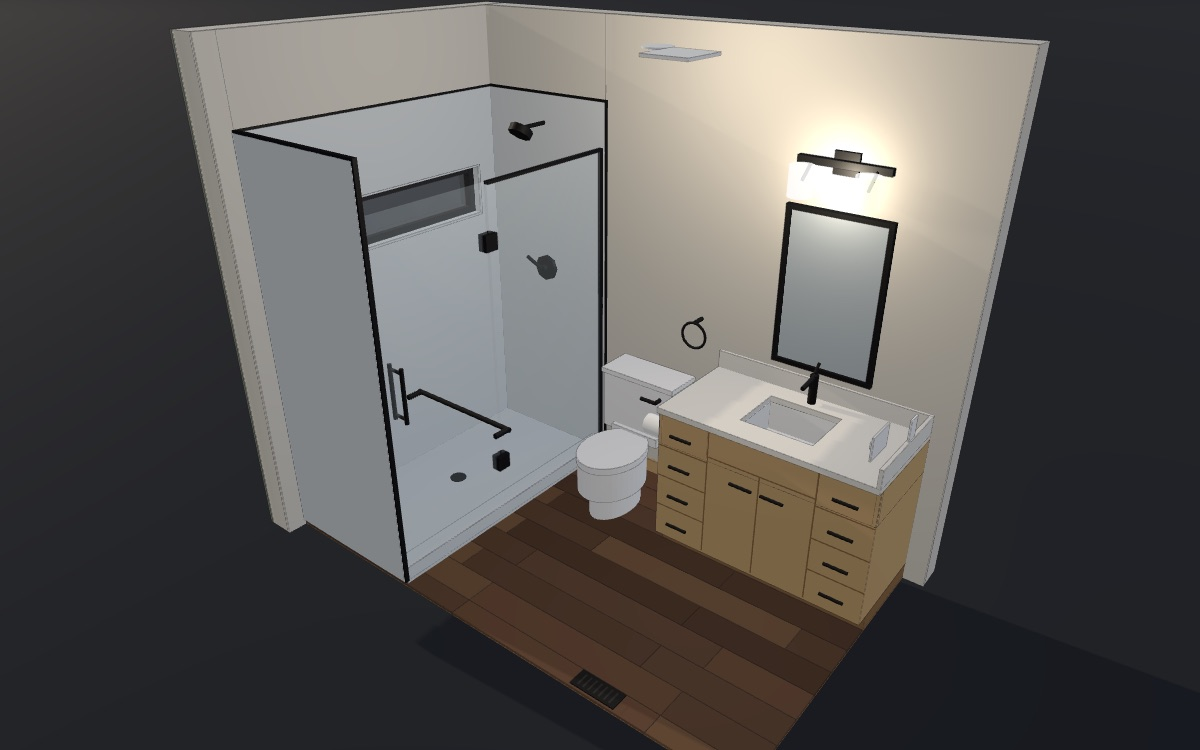
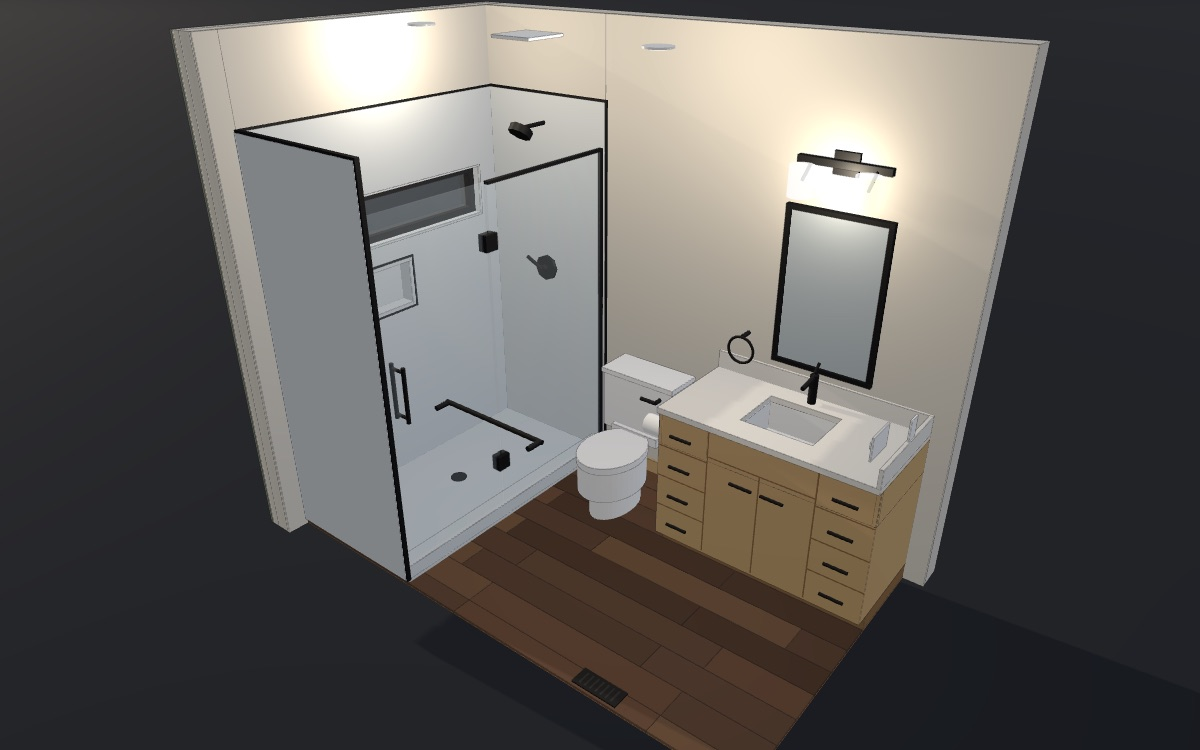
fix: guest bath -- shear-OSB dimensions (66 9/16" tile to tile), niche under window C, towel bar / WC supply / drain corrections, shower can + fan (owner review 2026-09-13)

diff --git a/guest-bath.html b/guest-bath.html
@@ -63,25 +63,34 @@
     <h1>Guest bath (lower floor) &mdash; interior 3D</h1>
     <div class="sub">138 Tahoma St E, Packwood &middot; Armstrong permit set 2507 (A02 plan + section 4 / A03 / A04 / E01 / M01 / S3.2)
     + basis-of-design fixture schedule. The lower-floor <b>GUEST BATH</b> on the east (gridline A) wall between the guest-room-1
-    closets (south) and the kitchen (north), entered from the hall: 5'-7 3/4" x 9'-8 1/2" clear under a flat 9'-0" ceiling. The
+    closets (south) and the kitchen (north), entered from the hall: 5'-7 5/16" x 9'-8 1/2" clear under a flat 9'-0" ceiling (the kitchen wall is a <b>shear wall with 7/16" OSB on the bath face</b> &mdash; owner 2026-09-13 &mdash; so its finishes sit 7/16" further into the room than the bare-stud reading; tape the OSB). The
     plumbing wall is centered on gridline 2; a 60 1/2" alcove is formed by an 8 1/2" chase at the kitchen end, with a 4'-0" x 1'-0"
     window (C) at 5'-0" in its east wall. <b>Owner changes 2026-09-10:</b> a tiled <b>shower with a frameless glass door</b> (<b>34 1/8" from the glass to the back tile</b> &mdash; owner 2026-09-13, was 32" &mdash; tile to 7'-6" with painted wall above,
     like the upstairs bath) replaces A02's tub; the single-sink vanity in the hall-wall corner grows to <b>48"</b>
     (A02: 42 1/2"); every fixture and accessory is <b>matte black</b>. The sink is <b>centered on the 48"</b> (owner decision). The <b>End wall</b>
-    radio opens on the owner's default -- <b>no stub wall</b>, a full-width <b>67"</b> tiled shower with custom glass wall to wall -- and can
+    radio opens on the owner's default -- <b>no stub wall</b>, a full-width <b>66 9/16"</b> tiled shower (67" before the OSB was known) with custom glass wall to wall, templated after tile -- and can
     show A02's 8 1/2" chase (which only existed to fit a standard 60" insert, drawn with a 60" x 36" pan) for comparison.
     <b>Depth 2026-09-13:</b> the shower front moved 2" west, so the glass-to-back-tile depth is 34 1/8" and the <b>flat floor inside the 4" curb is 31 1/8"</b>
     &mdash; the curb, not the glass, is what your feet and the toilet actually meet. The toilet is re-centred on those finished faces at
     <b>16 1/2" to the vanity end panel and 16 1/2" to the curb</b> (17 1/2" to the glass centerline; UPC 402.5 / IRC R307.1 minimum is 15",
-    18" is the comfort figure); 40" in front of it, 43" between the vanity and the kitchen wall. UPC 408.6 measures at the curb centerline:
-    33 1/8" x 67" = 2,219 sq in against a 1,024 minimum, with the 30" circle clearing by 3 1/8". Door 6
+    18" is the comfort figure); 39 5/16" in front of it, 42 9/16" between the vanity and the kitchen wall. UPC 408.6 measures at the curb centerline:
+    33 1/8" x 66 9/16" = 2,205 sq in against a 1,024 minimum, with the 30" circle clearing by 3 1/8". Door 6
     (30", LH in-swing) is hinged at the kitchen wall. Walls and openings follow the A02 dim chains; device and light positions are scaled
     from E01 / M01 (&plusmn;1", M01 &plusmn;3"). <b>Orange = not on record or the sheets disagree:</b> S3.2 puts the hall-wall header (a door)
-    at the plumbing-wall corner, 34" south of A02's door 6; A04 lists window C's rough width as 3'-0 1/2" against a 4'-0" unit; the
-    M01 fan and the E01 recessed can land 9" apart; the register sits under the open door; the shower valve and arm heights in the drawing are
-    measured from subfloor (46 1/2" and 78 1/2" above the shower's tiled floor) and the valve sits behind the fixed glass panel, out of reach from outside. <b>Fixtures match the main bath</b> (owner
+    at the plumbing-wall corner, 34" south of A02's door 6; A04 lists window C's rough width as 3'-0 1/2" against a 4'-0" unit; the register sits under the open door;
+    the valve (46 1/2" above the shower floor, arm 82") sits behind the fixed glass panel, out of reach from outside. <b>Design review 2026-09-13 (owner decisions):</b>
+    the M01 fan, 9" from the E01 can, moves beside the shower glass and a <b>wet-rated can is added over the shower</b> (neither is on E01 / M01); the towel bar moves 7" south,
+    out of the shower door's sweep (its free corner passes 2" off the kitchen wall at z 103); the towel ring moves off the toilet tank to z 75; the WC supply mark moves to the
+    shower side, <b>46 1/2"</b> (6" left of the flange facing the toilet); <b>window C needs tempered glass</b> (its glass bottom is ~59" above the shower floor, under IRC
+    R308.4.5's 60" line &mdash; a question for Elevate) and sits ~3 7/8" off the full-width shower's centre; a <b>recessed niche</b> goes in the east wall under window C
+    &mdash; one cripple bay, 12 3/4" x 10 1/4" x 3 1/2" clear, bottom 43", with 2" of closed-cell foam sprayed behind it before it is built; and the hinge-side door casing is a
+    rip, since the RO sits ~1" from the partition's drywall &mdash; tape the built RO. <b>Fixtures match the main bath</b> (owner
     2026-09-10): Moen UT3312 shower trim, Moen 6402 faucet, Kohler Artifacts 72582 sconce over a Kohler K-26052 mirror.
-    <b>Plumbing rough-in</b> is one Show checkbox, <b>Plumbing</b>, read on the <b>Plumbing</b> view (an elevation of the single wall every stub lands on) with <b>Framing</b> ticked and the finishes off &mdash; the condition at rough-in. Every penetration carries a crosshair on its centerline and a two-line tag: the run <b>along the wall from the EAST (window) wall studs</b> (owner 2026-09-13 &mdash; the datum he marks from), then the height <b>off the subfloor</b> ("up") where one is given, or <b>off the plumbing-wall studs</b> ("out") for the two points in the floor. A running string under the wall steps 10 1/2 | 5 1/2 | 2 | 34 1/2 | 6 | 30 1/2 | 4 | 4 = 97", so the whole run lays out on one tape pull. <b>Stub heights for the lav drain, lav supplies and WC supply are deliberately not shown</b> (owner 2026-09-13): the plumber uses his own standard and the vanity conceals all three. <b>Everything on the drawing is off bare studs.</b> Finished-face equivalents: this wall finishes 1/2" proud of the studs and 7/8" in the shower (1/2" backer + 3/8" tile), the hall wall 1/2", the floor 0.6" LVP and 1 1/2" tile in the shower. So the WC flange's 12 1/2" off the studs is the <b>12" rough-in measured to finished</b> &mdash; marking 12" off bare studs would bind the tank; the lav drain's 24 1/2" is 24" finished and its 18 5/8" is 18" AFF; the shower valve's 48" off the subfloor is 46 1/2" above the shower floor, and the arm's 83 1/2" is <b>82" above the shower floor</b> (owner 2026-09-13, raised from 78 1/2"); the shower tile was lifted to <b>7'-6"</b> in the same decision so the arm sits 6 1/2" inside the tile field rather than straddling its edge. From M01's notes: listed anti-scald / pressure-balance valve, 120&deg;F max (BATHROOM 4); rigidly support the head fitting (1); flange on corrosion-resistant fasteners (6); closet ring to vent 6'-0" maximum (7), and the flange is 42" from the vent; 18 ga nail plates wherever pipe comes within 1" of a framing face (PLUMBING 1). A flange set on the subfloor finishes ~5/8" below the LVP, so plan a spacer. Set the valve's plaster guard for a <b>7/8" finish</b>, not the 1/2" gyp the rest of the wall gets, and order the Moen M-CORE valve body to match the UT3312 trim. The <b>vent is drawn orange</b> because M01 detail 4 is a 3/16" schematic (&plusmn;3"): hold it to the north side of the 2x6 cavity, since a 2X12 floor joist runs directly over this wall and the top-plate penetration has to miss it, and nothing can rise at the hall end where a 6X8 post fills the cavity. <b>Settled 2026-09-13:</b> the owner has confirmed the full-width no-chase shower with Elevate, and the hall wall is <b>already framed with door 6 at the kitchen corner</b> beside the beam &mdash; the built condition, which matches A02 and settles the S3.2 header conflict in favour of what is drawn here (exact rough opening still wants a tape). <b>Still open:</b> the shower valve sits behind <i>fixed</i> glass about 40" from the door opening, so the water cannot be turned on from outside the enclosure &mdash; the owner is discussing it before deciding.
+    <b>Plumbing rough-in</b> is one Show checkbox, <b>Plumbing</b>, read on the <b>Plumbing</b> view (an elevation of the single wall every stub lands on) with <b>Framing</b> ticked and the finishes off &mdash; the condition at rough-in. Every penetration carries a crosshair on its centerline and a two-line tag: the run <b>along the wall from the EAST (window) wall studs</b> (owner 2026-09-13 &mdash; the datum he marks from), then the height <b>off the subfloor</b> ("up") where one is given, or <b>off the plumbing-wall studs</b> ("out") for the two points in the floor. A running string under the wall steps 10 1/2 | 5 1/2 | 2 | 28 1/2 | 6 | 36 1/2 | 4 | 4 = 97", so the whole run lays out on one tape pull. <b>Stub heights for the lav drain, lav supplies and WC supply are deliberately not shown</b> (owner 2026-09-13): the plumber uses his own standard and the vanity conceals all three. <b>Everything on the drawing is off bare studs.</b> Finished-face equivalents: this wall finishes 1/2" proud of the studs and 7/8" in the shower (1/2" backer + 3/8" tile), the hall wall 1/2", the floor 0.6" LVP and 1 1/2" tile in the shower. So the WC flange's 12 1/2" off the studs is the <b>12" rough-in measured to finished</b> &mdash; marking 12" off bare studs would bind the tank; the lav drain's 24 1/2" is 24" finished and its 18 5/8" is 18" AFF; the shower valve's 48" off the subfloor is 46 1/2" above the shower floor, and the arm's 83 1/2" is <b>82" above the shower floor</b> (owner 2026-09-13, raised from 78 1/2"); the shower tile was lifted to <b>7'-6"</b> in the same decision so the arm sits 6 1/2" inside the tile field rather than straddling its edge. From M01's notes: listed anti-scald / pressure-balance valve, 120&deg;F max (BATHROOM 4); rigidly support the head fitting (1); flange on corrosion-resistant fasteners (6); closet ring to vent 6'-0" maximum (7), and the flange is 42" from the vent; 18 ga nail plates wherever pipe comes within 1" of a framing face (PLUMBING 1). A flange set on the subfloor finishes ~5/8" below the LVP, so plan a spacer. Set the valve's plaster guard for a <b>7/8" finish</b>, not the 1/2" gyp the rest of the wall gets, and order the Moen M-CORE valve body to match the UT3312 trim. The <b>vent is drawn orange</b> because M01 detail 4 is a 3/16" schematic (&plusmn;3"): hold it to the north side of the 2x6 cavity, since a 2X12 floor joist runs directly over this wall and the top-plate penetration has to miss it, and nothing can rise at the hall end where a 6X8 post fills the cavity. <b>Settled 2026-09-13:</b> the owner has confirmed the full-width no-chase shower with Elevate, and the hall wall is <b>already framed with door 6 at the kitchen corner</b> beside the beam &mdash; the built condition, which matches A02 and settles the S3.2 header conflict in favour of what is drawn here (exact rough opening still wants a tape). <b>Still open:</b> the shower valve sits behind <i>fixed</i> glass about 40" from the door opening, so the water cannot be turned on from outside the enclosure &mdash; the owner is discussing it before deciding.
+    The options, written up 2026-09-13 at the owner's request: <b>(1) keep the valve where it is</b> and aim the head at the drain so the first cold blast lands away from the door &mdash;
+    the reviewer's recommendation, because <b>(2)</b> moving the valve to the kitchen end wall by the door means cutting that wall's shear OSB for the valve and arm (the engineer's
+    call, and the owner finds it awkward), the east wall is the insulated exterior wall, and a door at the valve end would sweep the toilet; <b>(3)</b> a frameless <b>sliding</b> door
+    lets the valve-end panel open (~12" reach), removes both swing conflicts, and costs a ~30" clear opening and an overlap seam to clean.
     Finishes (dark rustic LVP, knotty alder, light quartz) carry the owner's main-bath / kitchen picks and are assumptions
     here; the BoD leaves the bath cabinet TBD. No site photos or field tape of this room yet -- A02's own <i>5'-3 1/4" FIELD VERIFY</i>
     on the alcove is open. <b>Not engineered &mdash; do not build from this.</b>
@@ -1587,8 +1596,9 @@ const D = {
   TILE_T: 0.875, TILE_H: 90,                            // 1/2" backer + 3/8" tile on the three shower walls, to 7'-6" (owner 2026-09-13: lifted from 84" so the 82" arm sits 6 1/2" inside the tile field)
   // hall wall (west): hall gyp / studs / bath gyp
   HW_OUT: 29.0, HW_S1: 29.5, HW_S2: 33.0, HW_IN: 33.5,
-  // kitchen partition (north): bath gyp / studs / kitchen gyp
-  KP_IN: 71.0, KP_S1: 71.5, KP_S2: 75.0, KP_OUT: 75.5,
+  // kitchen partition (north) -- a SHEAR WALL with the OSB on the BATH face (owner 2026-09-13): bath gyp / 7/16" OSB / studs / kitchen gyp.
+  // S3.4's W-types are all 7/16" OSB; the built thickness is a TAPE item. Bath face = 71.5 - 0.4375 - 0.5 = 70 9/16" (was drawn 71.0 on bare studs)
+  KP_OSB: 0.4375, KP_IN: 70.5625, KP_S1: 71.5, KP_S2: 75.0, KP_OUT: 75.5,
   // chase at the alcove's north end: framing face (chain 255.75 - 192.5) and its return plane (moved from A02's 120 to 116.5 for a 34" pan)
   CH_X1: 63.25, CH_Z: 114.5,
   // east wall (gridline A): gyp / studs / sheathing / siding
@@ -1598,6 +1608,9 @@ const D = {
   // openings (door 6 per the A02 chain; window C RO 4'-0 1/2" x 1'-0 1/2", A04's 3'-0 1/2" rough width flagged)
   DOOR_X1: 39.0, DOOR_X2: 69.5, DOOR_HEAD: 84.5, DOOR_W: 30, DOOR_T: 1.375,
   WIN_X1: 8.75, WIN_X2: 57.25, WIN_SILL: 59.75, WIN_HEAD: 72.25,
+  // recessed niche in the east wall under window C (owner 2026-09-13): one cripple bay [x1, x2, y1, y2, framed depth]; the bay drawn is the
+  // assumed 16" layout (cripples at 31.75 / 47.75) -- use the built bay nearest the shower centre; 2" closed-cell foam stays BEHIND it
+  NICHE: [32.5, 47.0, 43.0, 55.0, 3.5],
   // shower (owner 2026-09-10, replaces the A02 tub; depth 32" -> 34" owner 2026-09-13, spec decision 10): frameless glass on the threshold,
   // 34 1/8" glass to back tile / 31 1/8" of flat floor inside the 4" curb; 60" x 36" alcove pan in the chase comparison view
   SH_X1: 3.0, SH_X2: 63.0, SH_Z1: 114.5, SH_Z2: 150.5, PAN_T: 1.5, CURB_W: 3.0, GLASS_Z: 115.5, GLASS_H: 80,
@@ -1611,7 +1624,7 @@ const D = {
   // glass centerline; was 99.5 at the 32" depth, A02 drew 104 (spec decision 10)
   WC_Z: 98.0,
   // devices: E01 can + GFCI + 3-gang, M01 fan + floor register
-  CAN: [37.2, 77.4], FAN: [42.0, 70.0], SWITCH_X: 32.5, GFCI_X: 15.5, REG: [66.5, 70.5, 60, 70],
+  CAN: [37.2, 77.4], FAN: [38.0, 105.0], SHCAN: [36.9, 134.0], SWITCH_X: 32.5, GFCI_X: 15.5, REG: [66.0, 70.0, 60, 70],   // owner 2026-09-13: fan moved beside the shower glass (M01 had it at 42 / 70, 9" from the E01 can) and a wet-rated can added over the shower
   // finishes + framing rules
   PLANK_W: 7, PLANK_L: 48, BASE_H: 3.5,
   JOIST_X0: -2.2, JOIST_OC: 16, DRAG_X: 71.8,
@@ -1828,6 +1841,8 @@ scene.add(new THREE.AmbientLight(0xffffff, 0.35));
 
 const TOP = D.CEIL + D.GYP_T;   // walls run to the joist underside (108); the ceiling gyp sits inside
 const winHole = rect(D.WIN_X1, D.WIN_SILL, D.WIN_X2, D.WIN_HEAD);
+const [NX1, NX2, NY1, NY2, ND] = D.NICHE, nicheHole = rect(NX1, NY1, NX2, NY2);   // niche recess in the east wall (owner 2026-09-13)
+const KP_F = D.KP_S1 - D.KP_OSB;   // face of the kitchen wall's shear OSB on the bath side: gyp, and backer + tile in the shower, sit on THIS, not on the studs
 
 // ---- plumbing wall (south, gridline 2): 2x6 core + gyp; the alcove stretch of the bath face is tile (tile layer) --------
 {
@@ -1845,8 +1860,9 @@ const winHole = rect(D.WIN_X1, D.WIN_SILL, D.WIN_X2, D.WIN_HEAD);
   box(x2 - 0.75, x2, 0, h, D.HW_OUT, D.HW_IN, M.alder, L);
   box(x1, x2, h - 0.75, h, D.HW_OUT, D.HW_IN, M.alder, L);
   for (const [za, zb] of [[D.HW_IN, D.HW_IN + 0.6], [D.HW_OUT - 0.6, D.HW_OUT]]) {   // casing, both faces
-    box(x1 - 2.5, x1, 0, h + 2.5, za, zb, M.alder, L); box(x2, x2 + 2.5, 0, h + 2.5, za, zb, M.alder, L);
-    box(x1 - 2.5, x2 + 2.5, h, h + 2.5, za, zb, M.alder, L);
+    const cx2 = za >= D.HW_IN ? Math.min(x2 + 2.5, D.KP_IN) : x2 + 2.5;             // bath side: the RO is ~1" from the kitchen partition's drywall, so the hinge-side casing is a rip, not 2 1/2" (tape the built RO)
+    box(x1 - 2.5, x1, 0, h + 2.5, za, zb, M.alder, L); box(x2, cx2, 0, h + 2.5, za, zb, M.alder, L);
+    box(x1 - 2.5, cx2, h, h + 2.5, za, zb, M.alder, L);
   }
   const grp = new THREE.Group();
   grp.position.set(x2 - 0.75 - 0.15, 0, D.HW_IN - D.DOOR_T / 2);                // hinge pin at the north jamb, bath side of the stop
@@ -1865,14 +1881,16 @@ const winHole = rect(D.WIN_X1, D.WIN_SILL, D.WIN_X2, D.WIN_HEAD);
 //      the tile used to sit over the gyp, which understated the no-chase shower by 1/2"). Behind the chase option the strip is
 //      hidden by the chase block, so it is simply left out in both views.
 box(D.KP_S1, D.KP_OUT, 0, TOP, D.HW_OUT, D.EW_S1, M.gyp, 'wallN');                       // core + kitchen-side gyp, full length
-box(D.KP_IN, D.KP_S1, 0, TOP, D.HW_OUT, D.CH_Z, M.gyp, 'wallN');                         // bath-side gyp up to the shower
-box(D.KP_IN, D.KP_S1, D.TILE_H, TOP, D.CH_Z, D.EW_S1, M.gyp, 'wallN');                   // ... and above the shower tile
+box(KP_F, D.KP_S1, 0, TOP, D.HW_OUT, D.EW_S1, M.ply, 'wallN');                           // 7/16" shear OSB on the bath face, full length (owner 2026-09-13; S3.4)
+box(D.KP_IN, KP_F, 0, TOP, D.HW_OUT, D.CH_Z, M.gyp, 'wallN');                            // bath-side gyp over the OSB, up to the shower
+box(D.KP_IN, KP_F, D.TILE_H, TOP, D.CH_Z, D.EW_S1, M.gyp, 'wallN');                      // ... and above the shower tile
 tagNew('chaseOn', () => box(D.CH_X1, D.KP_IN, 0, TOP, D.CH_Z, D.EW_S1, M.gyp, 'tub'));   // chase block: 8 1/4" framing + gyp return at the pan's front edge (End wall radio)
 
 // ---- east wall (gridline A) with window C: 4'-0" x 1'-0" at 5'-0", tiled returns inside the surround -----------------------
 {
   const L = 'wallE', x1 = D.PW_OUT, x2 = D.KP_OUT;
-  prism(rect(x1, 0, x2, TOP), D.EW_S1, D.EW_S2, M.gyp, L, [winHole]);            // stud zone
+  prism(rect(x1, 0, x2, TOP), D.EW_S1, D.EW_S1 + ND, M.gyp, L, [winHole, nicheHole]);   // stud zone, inner 3 1/2" with the niche recess
+  prism(rect(x1, 0, x2, TOP), D.EW_S1 + ND, D.EW_S2, M.gyp, L, [winHole]);             // ... outer 2": the closed-cell foam stays behind the niche
   prism(rect(x1, 0, x2, TOP), D.EW_S2, D.SHEATH, M.ply, L, [winHole]);            // 7/16" OSB
   prism(rect(x1, 0, x2, TOP), D.SHEATH, D.SIDING, M.siding, L, [winHole]);        // hardie siding
   prism(rect(x1, 0, D.PW_N, TOP), D.EW_IN, D.EW_S1, M.gyp, L);                    // interior gyp outside the alcove
@@ -1889,6 +1907,16 @@ tagNew('chaseOn', () => box(D.CH_X1, D.KP_IN, 0, TOP, D.CH_Z, D.EW_S1, M.gyp, 't
   box(D.WIN_X1, D.WIN_X2, D.WIN_HEAD - 0.5, D.WIN_HEAD, tf, fz1, M.tile, 'tile');
   box(D.WIN_X1, D.WIN_X1 + 0.5, D.WIN_SILL, D.WIN_HEAD, tf, fz1, M.tile, 'tile');
   box(D.WIN_X2 - 0.5, D.WIN_X2, D.WIN_SILL, D.WIN_HEAD, tf, fz1, M.tile, 'tile');
+  // niche (owner 2026-09-13): tiled box in the 3 1/2" recess under the window -- 7/8" backer + tile on the back and the four sides,
+  // 12 3/4" x 10 1/4" x 3 1/2" clear, black edge trim at the wall face; the bottom is sloped to the shower in reality
+  {
+    const t = D.TILE_T, zf = tf, zb = D.EW_S1 + ND;
+    box(NX1, NX2, NY1, NY2, zb - t, zb, M.tile, 'tile');                                   // back
+    box(NX1, NX2, NY1, NY1 + t, zf, zb - t, M.tile, 'tile'); box(NX1, NX2, NY2 - t, NY2, zf, zb - t, M.tile, 'tile');   // bottom / top
+    box(NX1, NX1 + t, NY1, NY2, zf, zb - t, M.tile, 'tile'); box(NX2 - t, NX2, NY1, NY2, zf, zb - t, M.tile, 'tile');   // sides
+    for (const [a, b] of [[NX1 - 0.5, NX1], [NX2, NX2 + 0.5]]) box(a, b, NY1 - 0.5, NY2 + 0.5, zf - 0.1, zf + 0.1, M.black, 'tile', false);   // edge trim
+    for (const [a, b] of [[NY1 - 0.5, NY1], [NY2, NY2 + 0.5]]) box(NX1, NX2, a, b, zf - 0.1, zf + 0.1, M.black, 'tile', false);
+  }
 }
 
 // ---- floor: COREtec 7" x 48" LVP planks (BoD 0965) running the long way (east-west), staggered; dark rustic per the owner ----
@@ -1945,7 +1973,7 @@ box(D.PW_IN, D.KP_IN, D.CEIL, D.CEIL + D.GYP_T, D.HW_IN, D.EW_IN, M.gyp, 'ceilin
     box(x1, x2, 0, 4, z1, z1 + D.CURB_W, M.white, L);                                   // threshold along the glass line
     cyl((x1 + x2) / 2, (z1 + D.CURB_W + z2) / 2, yb, yb + 0.2, 2, M.black, L);         // drain
     box(xe - tt, xe, yb, th, z1, ez, M.tile, T);                                        // chase-end tile
-    prism(rect(D.PW_N, yb, xe, th), ez, D.EW_S1, M.tile, T, [winHole]);                // east wall tile around window C
+    prism(rect(D.PW_N, yb, xe, th), ez, D.EW_S1, M.tile, T, [winHole, nicheHole]);     // east wall tile around window C and the niche
     box(xe - tt - 0.1, xe, yb, th + 0.5, z1 - 0.5, z1, M.black, T, false);
     box(xe - tt - 0.1, xe, th, th + 0.5, z1 - 0.5, ez, M.black, T, false);
     box(D.PW_N, xe, th, th + 0.5, ez - 0.1, ez + 0.1, M.black, T, false);
@@ -1955,17 +1983,17 @@ box(D.PW_IN, D.KP_IN, D.CEIL, D.CEIL + D.GYP_T, D.HW_IN, D.EW_IN, M.gyp, 'ceilin
     pull(gs + 3.5);
   });
   tagNew('chaseOff', () => {                                                             // no chase: tiled floor + curb wall to wall, door hinged on the panel
-    const x1 = xf, x2 = D.KP_S1 - tt, gs = D.DOOR_G_X2, gx2 = x2 - 0.4;   // tile face 70.625: backer replaces the gyp, so the shower is 67" tile to tile
+    const x1 = xf, x2 = KP_F - tt, gs = D.DOOR_G_X2, gx2 = x2 - 0.4;   // tile face 70.1875: backer + tile on the shear OSB, so the shower is 66 9/16" tile to tile (67" before the OSB was known -- owner 2026-09-13)
     box(x1, x2, 0, yb, z1, z2, M.tile, L);                                              // tiled floor (mud-set, sloped to the drain in reality)
     box(x1, x2, 0, 4.5, z1, z1 + 4, M.tile, L);                                         // tiled 4" curb
     cyl((x1 + x2) / 2, (z1 + 4 + z2) / 2, yb, yb + 0.2, 2, M.black, L);                // drain
-    box(D.KP_S1 - tt, D.KP_S1, yb, th, z1, ez, M.tile, T);                              // kitchen-wall end tile
-    prism(rect(D.PW_N, yb, D.KP_S1, th), ez, D.EW_S1, M.tile, T, [winHole]);           // east wall tile, full width
-    box(D.KP_S1 - tt - 0.1, D.KP_S1, yb, th + 0.5, z1 - 0.5, z1, M.black, T, false);
-    box(D.KP_S1 - tt - 0.1, D.KP_S1, th, th + 0.5, z1 - 0.5, ez, M.black, T, false);
-    box(D.PW_N, D.KP_S1, th, th + 0.5, ez - 0.1, ez + 0.1, M.black, T, false);
+    box(KP_F - tt, KP_F, yb, th, z1, ez, M.tile, T);                                    // kitchen-wall end tile, on the OSB
+    prism(rect(D.PW_N, yb, KP_F, th), ez, D.EW_S1, M.tile, T, [winHole, nicheHole]);   // east wall tile, full width, with the niche cut
+    box(KP_F - tt - 0.1, KP_F, yb, th + 0.5, z1 - 0.5, z1, M.black, T, false);
+    box(KP_F - tt - 0.1, KP_F, th, th + 0.5, z1 - 0.5, ez, M.black, T, false);
+    box(D.PW_N, KP_F, th, th + 0.5, ez - 0.1, ez + 0.1, M.black, T, false);
     panel(xf + 0.6, gs - 0.3);
-    box(gs + 0.3, gx2, 4, gh, gz - 0.19, gz + 0.19, M.glass, G, false);                 // 29 1/2" door, free edge at the kitchen wall
+    box(gs + 0.3, gx2, 4, gh, gz - 0.19, gz + 0.19, M.glass, G, false);                 // 29 1/8" door, free edge at the kitchen wall (the glass is templated after tile, never from this drawing)
     for (const y of [14, 66]) box(gs - 1.6, gs + 1.6, y, y + 3.5, gz - 1.1, gz + 1.1, M.black, G);   // glass-to-glass hinges
     box(gx2, x2, 4, gh, gz - 0.5, gz + 0.5, M.black, G);                                // strike channel at the kitchen wall
     pull(gx2 - 3.5);
@@ -2021,7 +2049,7 @@ box(D.PW_IN, D.KP_IN, D.CEIL, D.CEIL + D.GYP_T, D.HW_IN, D.EW_IN, M.gyp, 'ceilin
   drawers(z1, z1 + 11.85); doors(z1 + 12.15, z2 - 12.15); drawers(z2 - 11.85, z2); sink(D.SINK_ZC);
 }
 
-// ---- toilet (American Standard, model not named; elongated) on the plumbing wall, centerline z = 104 -------------------------
+// ---- toilet (American Standard, model not named; elongated) on the plumbing wall, centerline z = 98 (spec decision 10) -------------------------
 {
   const zc = D.WC_Z, xb = D.PW_IN + 0.5, L = 'fixtures';
   box(xb, xb + 8.5, 15.5, 30, zc - 9.75, zc + 9.75, M.white, L);                       // tank
@@ -2037,10 +2065,10 @@ box(D.PW_IN, D.KP_IN, D.CEIL, D.CEIL + D.GYP_T, D.HW_IN, D.EW_IN, M.gyp, 'ceilin
   bar(V(20, 26, D.VAN_Z2), V(20, 26, D.VAN_Z2 + 3.5), 0.45, C, L);                     // TP holder on the vanity's end panel
   bar(V(20, 26, D.VAN_Z2 + 3.0), V(20, 26, D.VAN_Z2 + 7.8), 2.25, M.paper, L);
   bar(V(20, 26, D.VAN_Z2 + 3.5), V(20, 26, D.VAN_Z2 + 8.2), 0.45, C, L);
-  for (const z of [85, 107]) bar(V(D.KP_IN, 48, z), V(D.KP_IN - 3, 48, z), 0.5, C, L);   // 24" towel bar on the kitchen wall by the shower door
-  bar(V(D.KP_IN - 3, 48, 84.5), V(D.KP_IN - 3, 48, 107.5), 0.45, C, L);
-  bar(V(D.PW_IN, 46, 87), V(D.PW_IN + 3, 46, 87), 0.5, C, L);                          // hand-towel ring on the plumbing wall past the vanity
-  const ring = new THREE.Mesh(new THREE.TorusGeometry(3, 0.3, 8, 28), C); ring.position.set(D.PW_IN + 3.2, 43, 87); ring.rotation.y = Math.PI / 2; reg(ring, L);
+  for (const z of [78, 100]) bar(V(D.KP_IN, 48, z), V(D.KP_IN - 3, 48, z), 0.5, C, L);   // 24" towel bar on the kitchen wall by the shower door -- moved 7" south (owner 2026-09-13):
+  bar(V(D.KP_IN - 3, 48, 77.5), V(D.KP_IN - 3, 48, 100.5), 0.45, C, L);                //  the door's free corner sweeps to z ~103 at a 3" projection, so the old z 84 1/2 .. 107 1/2 bar was in its arc
+  bar(V(D.PW_IN, 46, 75), V(D.PW_IN + 3, 46, 75), 0.5, C, L);                          // hand-towel ring on the plumbing wall between the mirror (68 1/2) and the vanity end (81 1/2) --
+  const ring = new THREE.Mesh(new THREE.TorusGeometry(3, 0.3, 8, 28), C); ring.position.set(D.PW_IN + 3.2, 43, 75); ring.rotation.y = Math.PI / 2; reg(ring, L);   // owner 2026-09-13; at z 87 it hung over the toilet tank
 }
 
 // ---- lights and devices (E01 / M01) -------------------------------------------------------------------------------------------
@@ -2050,6 +2078,10 @@ box(D.PW_IN, D.KP_IN, D.CEIL, D.CEIL + D.GYP_T, D.HW_IN, D.EW_IN, M.gyp, 'ceilin
   cyl(cx, cz, yc - 0.35, yc, 2.7, M.white, L);
   cyl(cx, cz, yc - 0.5, yc - 0.3, 2.0, M.lens, L);
   const pl = new THREE.PointLight(0xfff1dc, 3000, 0, 2); pl.position.set(cx, yc - 4, cz); scene.add(pl);
+  const [sx, sz] = D.SHCAN;                                                            // wet-rated LED can over the shower (owner 2026-09-13; not on E01)
+  cyl(sx, sz, yc - 0.35, yc, 2.7, M.white, L);
+  cyl(sx, sz, yc - 0.5, yc - 0.3, 2.0, M.lens, L);
+  const sl = new THREE.PointLight(0xfff1dc, 2200, 0, 2); sl.position.set(sx, yc - 4, sz); scene.add(sl);
   const [fx, fz] = D.FAN;                                                              // Broan Economy 50 CFM grille (M01 position +/-3")
   box(fx - 4.5, fx + 4.5, yc - 0.5, yc, fz - 4.4, fz + 4.4, M.white, L);
   box(fx - 3.5, fx + 3.5, yc - 0.6, yc - 0.52, fz - 3.4, fz + 3.4, M.black, L, false);
@@ -2108,6 +2140,7 @@ box(D.PW_IN, D.KP_IN, D.CEIL, D.CEIL + D.GYP_T, D.HW_IN, D.EW_IN, M.gyp, 'ceilin
     }
     box(w1 - 1.5, w2 + 1.5, D.WIN_HEAD, D.WIN_HEAD + 7.25, z1 + 1, z1 + 4.5, M.flag, L);   // 4X8 DF-L #2 per S3.2 note 4 -- not called out at C
     box(w1 - 1.5, w2 + 1.5, D.WIN_SILL - 1.5, D.WIN_SILL, z1, z2, F, L);
+    box(NX1, NX2, NY1 - 1.5, NY1, z1, z1 + ND, F, L); box(NX1, NX2, NY2, NY2 + 1.5, z1, z1 + ND, F, L);   // niche sill + header blocks between two cripples; the 2" behind them is closed-cell foam
     for (let x = w1 + 7; x < w2 - 1; x += 16) studX(x, z1, z2, 1.5, D.WIN_SILL - 1.5);
     for (let x = w1 + 7; x < w2 - 1; x += 16) studX(x, z1, z2, D.WIN_HEAD + 7.25, yt - 3);
   }
@@ -2142,36 +2175,40 @@ box(D.PW_IN, D.KP_IN, D.CEIL, D.CEIL + D.GYP_T, D.HW_IN, D.EW_IN, M.gyp, 'ceilin
 }
 
 // ---- labels -----------------------------------------------------------------------------------------------------------------------
-label('GUEST BATH  5\'-7 3/4" x 9\'-8 1/2" clear, 9\'-0" ceiling\nplumbing wall centered on gridline 2', 37, 72, 92);
+label('GUEST BATH  5\'-7 5/16" x 9\'-8 1/2" clear, 9\'-0" ceiling\nplumbing wall centered on gridline 2; the kitchen wall is a SHEAR WALL with 7/16" OSB on the bath face (owner 2026-09-13) -- tape the OSB', 37, 72, 92);
 label('Door 6  30" x 84"  LH in-swing, hinged at the kitchen wall\nAgeless Iron Loch, OPCI', 54, 92, 34);
 label('RESOLVED BY THE BUILT CONDITION (owner 2026-09-13): this wall is framed with door 6 at the KITCHEN corner,\nbeside the beam -- the A02 position drawn here. S3.2\'s header 34" south was the conflict; the built wall settles it.\nStill worth a tape on the exact rough opening.', 40, 100, 31, NOTE);
-label('Window C  4\'-0" x 1\'-0", sill 5\'-0" (A03, A04 type C, section 4)\nA04 schedule lists its rough width as 3\'-0 1/2" -- drawn 4\'-0 1/2"; returns tiled', 33, 84, 148, FLAG);
+label('Window C  4\'-0" x 1\'-0", sill 5\'-0" (A03, A04 type C, section 4)\nA04 schedule lists its rough width as 3\'-0 1/2" -- drawn 4\'-0 1/2"; returns tiled\nTEMPERED glazing required: the glass bottom is ~59" above the shower floor, under IRC R308.4.5\'s 60" line -- confirm on the order with Elevate (obscure optional)\nThe unit is centred on the old 60 1/2" alcove (x 33), ~3 7/8" south of the full-width shower\'s centre -- built; the tile layout should know', 33, 84, 148, FLAG);
 tagNew('chaseOn', () => label('For comparison: 60" x 36" alcove pan in the A02 chase, 58 3/4" x 34 1/8" to the glass\nthe chase only existed to fit a standard insert. End wall radio: none (default) / chase', 33, 26, 132));
-tagNew('chaseOff', () => label('Full-width tiled shower, no chase (owner default): 67" tile to tile x 34 1/8" to the glass (owner 2026-09-13, was 32")\ntiled floor + 4" curb -- 31 1/8" of FLAT floor inside the curb, which is the dimension you stand in; custom frameless glass wall to wall', 37, 26, 132));
-label('Moen UT3312 Belfield M-CORE 3-Series shower trim, matte black -- same as the main bath (owner 2026-09-10); replaces the BoD UT2313EP kit\nValve 48" / arm 80" are ABOVE SUBFLOOR = 46 1/2" / 78 1/2" above the shower floor -- settle both as above-shower-floor numbers before rough-in\nAnd the valve sits behind the FIXED panel, ~35" from the door: the water cannot be turned on from outside, and walking to it crosses the spray.\nThe chase option\'s answer (a valve in the chase) went away with the chase -- owner call. M01 note 4: listed anti-scald / pressure-balance valve, 120 F max', 10, 96, 132.5, FLAG);
+tagNew('chaseOff', () => label('Full-width tiled shower, no chase (owner default): 66 9/16" tile to tile x 34 1/8" to the glass (owner 2026-09-13)\n66 9/16", not 67": the kitchen wall carries 7/16" shear OSB under its backer + tile (owner 2026-09-13) -- tape the OSB; the glass is templated after tile\ntiled floor + 4" curb -- 31 1/8" of FLAT floor inside the curb, which is the dimension you stand in; custom frameless glass wall to wall', 37, 26, 132));
+label('Moen UT3312 Belfield M-CORE 3-Series shower trim, matte black -- same as the main bath (owner 2026-09-10); replaces the BoD UT2313EP kit\nValve 48" / arm 83 1/2" above SUBFLOOR = 46 1/2" / 82" above the shower floor (owner 2026-09-13)\nOPEN (owner discussing): the valve sits behind the FIXED panel, ~40" from the door opening -- the water cannot be turned on from outside.\nThe kitchen wall is shear (no plumbing in it) and the east wall is the insulated exterior, so the choice is: keep it here and aim the head at the drain (recommended),\nor a sliding door that opens at the valve end -- see the caption. M01 note 4: listed anti-scald / pressure-balance valve, 120 F max', 10, 96, 132.5, FLAG);
 tagNew('chaseOn', () => label('Frameless glass: fixed panel at the valve end, 30" door hinged on the chase, swings out\n(a door at the valve end would sweep the toilet)', 33, 86, 118, NOTE));
-tagNew('chaseOff', () => label('Frameless glass wall to wall in a 67" opening: 35 7/8" fixed panel at the valve end, 29 9/16" door on glass-to-glass hinges,\nswings out and closes against the kitchen wall (a valve-end door would sweep the toilet)', 37, 86, 116, NOTE));
+tagNew('chaseOff', () => label('Frameless glass wall to wall in a 66 9/16" opening: 35 7/8" fixed panel at the valve end, 29 1/8" door on glass-to-glass hinges,\nswings out and closes against the kitchen wall (a valve-end door would sweep the toilet); its free corner sweeps to within 2" of the kitchen wall north of z 103', 37, 86, 116, NOTE));
 label('Tile 0931 (OPCI) to 7\'-6" on three walls, painted wall above (owner 2026-09-13: lifted from 7\'-0" to clear the 82" shower arm)', 40, 96, 148, NOTE);
 label('Single-sink vanity 48" x 24 3/4" (owner 2026-09-10; A02 42 1/2"), sink centered (owner decision): 12" drawers | 24" doors | 12" drawers\ncabinet species TBD in the BoD (drawn alder), quartz assumed; Moen 6402 faucet as upstairs; the E01 receptacle stays on the hall wall', 16, 42, 58);
 label('Kohler Artifacts 72582 two-light sconce over a Kohler K-26052 Essential 22" x 34" mirror -- same as the main bath (owner 2026-09-10)\nreplaces the BoD Bellevue EGBF23259 bar; the E01 circuit-2 box lands on the sink centerline, 24" off the hall wall', 8, 97, D.SINK_ZC, NOTE);
 label('Toilet -- American Standard (model not named)\ncenterline z 98: 16 1/2" to the vanity end panel and 16 1/2" to the CURB FACE -- the nearest finished obstruction, 1" inboard of the glass\n(17 1/2" to the glass centerline; UPC 402.5 / IRC R307.1 minimum is 15"). A02 drew it 6" further toward the shower', 22, 34, 98, FLAG);
-label('Recessed can (E01 ckt 2) and Broan 50 CFM fan (M01) land 9" apart\none moves ~6", or the fan becomes a fan/light', 40, 103, 74, FLAG);
+label('Recessed can (E01 ckt 2) stays; the M01 fan that sat 9" from it moved beside the shower glass (owner 2026-09-13)', 40, 103, 74, NOTE);
+label('Broan 50 CFM fan, moved beside the shower glass (owner 2026-09-13; M01 had it 9" from the can) -- tell the electrician', D.FAN[0], 103, D.FAN[1], FLAG);
+label('Wet-rated LED can over the shower (owner 2026-09-13; not on E01) -- the shower had no light of its own behind 7\'-6" tile and 80" glass', D.SHCAN[0], 103, D.SHCAN[1], FLAG);
+label('Recessed niche under window C (owner 2026-09-13): one cripple bay, 12 3/4" x 10 1/4" clear x 3 1/2" deep, bottom 43" (41 1/2" above the shower floor)\n2" closed-cell foam sprayed BEHIND it first; no cripple is cut (the exterior wall is shear W1); sloped tiled sill; the bay drawn is the assumed layout -- use the built bay nearest the shower centre', 40, 37, 147, FLAG);
+label('Hinge-side casing: the RO is ~1" from the kitchen partition\'s drywall (7/16" OSB + 1/2" gyp on the studs) -- a rip or a flush jamb, not a full 2 1/2" casing; tape the built RO', 66, 88, 34, FLAG);
 label('3-gang: vanity light / can / fan', D.SWITCH_X, 55, 36, NOTE);
 label('GFCI, ckt 32', D.GFCI_X, 48, 36, NOTE);
 label('Floor register at the end of the M01 trunk -- under the open door leaf, +/-4"', 66, 8, 65, FLAG);
-label('Accessories matte black (owner); TP holder, towel bar and ring locations are proposals, not on A02', 62, 56, 96, NOTE);
+label('Accessories matte black (owner); TP holder, towel bar and ring locations are proposals, not on A02\ntowel bar moved south out of the shower door\'s sweep and the ring off the toilet tank (review 2026-09-13)', 62, 56, 96, NOTE);
 label('COREtec Pro Plus 7" x 48" LVP (BoD 0965), dark rustic per the owner (main-bath pick)', 37, 4, 96, NOTE);
 label('Knotty alder casing + 3 1/2" base, assumed from the main bath (BoD 0680: painted)', 58, 9, 44, NOTE);
 label('Flat gyp ceiling at 9\'-0" (section 4)', 37, 104, 56, NOTE);
 
 // ---- dimensions -------------------------------------------------------------------------------------------------------------------
-dim(V(D.PW_IN, 2, 112), V(D.KP_IN, 2, 112), '5\'-7 3/4" clear', V(0, 0, 0), V(0, 1, 0));
+dim(V(D.PW_IN, 2, 112), V(D.KP_IN, 2, 112), '5\'-7 5/16" clear (7/16" OSB on the kitchen wall -- tape)', V(0, 0, 0), V(0, 1, 0));
 dim(V(36, 2, D.HW_IN), V(36, 2, D.EW_IN), '9\'-8 1/2" clear', V(0, 0, 0), V(0, 1, 0));
 tagNew('chaseOn', () => {
   dim(V(D.PW_N, 100, 112), V(D.CH_X1, 100, 112), '60 1/2" stud to stud (FIELD VERIFY)', V(0, 0, 0), V(0, 1, 0));
   dim(V(0, 106, 110), V(D.CH_X1, 106, 110), '5\'-3 1/4" from gridline 2 (A02)', V(0, 0, 0), V(0, 1, 0));
 });
-tagNew('chaseOff', () => dim(V(D.PW_IN, 100, 112), V(D.KP_IN, 100, 112), '67 3/4" wall to wall (67" tile to tile), no chase', V(0, 0, 0), V(0, 1, 0)));
+tagNew('chaseOff', () => dim(V(D.PW_IN, 100, 112), V(D.KP_IN, 100, 112), '67 5/16" wall to wall (66 9/16" tile to tile), no chase -- tape the OSB', V(0, 0, 0), V(0, 1, 0)));
 dim(V(20, 20, D.GLASS_Z), V(20, 20, D.EW_S1 - D.TILE_T), '34 1/8" glass to tile (owner: 34")', V(0, 0, 0), V(0, 1, 0));
 dim(V(26, 20, D.SH_Z1 + 4), V(26, 20, D.EW_S1 - D.TILE_T), '31 1/8" flat floor inside the curb', V(0, 0, 0), V(0, 1, 0));
 dim(V(D.CTR_X2 + 3, 44, D.VAN_Z1), V(D.CTR_X2 + 3, 44, D.SINK_ZC), '24" to the sink', V(0, 0, 0), V(0, 1, 0));
@@ -2179,17 +2216,19 @@ dim(V(D.CTR_X2 + 3, 38, D.VAN_Z1), V(D.CTR_X2 + 3, 38, D.VAN_Z2), '48"', V(0, 0,
 dim(V(D.VAN_X1, 38, D.VAN_Z2 + 3), V(D.CTR_X2, 38, D.VAN_Z2 + 3), '24 3/4"', V(0, 0, 0), V(0, 1, 0));
 dim(V(32, 8, D.VAN_Z2), V(32, 8, D.WC_Z), '16 1/2" to the vanity', V(0, 0, 0), V(0, 1, 0));
 dim(V(32, 8, D.WC_Z), V(32, 8, D.SH_Z1), '16 1/2" to the curb', V(0, 0, 0), V(0, 1, 0));
-dim(V(D.CTR_X2, 14, 56), V(D.KP_IN, 14, 56), '43" vanity to kitchen wall', V(0, 0, 0), V(0, 1, 0));
-dim(V(D.PW_IN + 27.5, 14, D.WC_Z + 12), V(D.KP_IN, 14, D.WC_Z + 12), '40" in front of the toilet', V(0, 0, 0), V(0, 1, 0));
+dim(V(D.CTR_X2, 14, 56), V(D.KP_IN, 14, 56), '42 9/16" vanity to kitchen wall', V(0, 0, 0), V(0, 1, 0));
+dim(V(D.PW_IN + 28, 14, D.WC_Z + 12), V(D.KP_IN, 14, D.WC_Z + 12), '39 5/16" in front of the toilet', V(0, 0, 0), V(0, 1, 0));
 dim(V(D.WIN_X1, D.WIN_HEAD + 5, D.EW_IN - 1), V(D.WIN_X2, D.WIN_HEAD + 5, D.EW_IN - 1), 'RO 4\'-0 1/2" x 1\'-0 1/2"', V(0, 0, 0), V(0, 1, 0));
 dim(V(D.WIN_X2 + 4, 0, D.EW_IN - 1), V(D.WIN_X2 + 4, D.WIN_SILL, D.EW_IN - 1), 'sill 5\'-0"', V(0, 0, 0), V(0, 0, 1));
+dim(V(NX1, NY1 - 3, D.EW_IN - 1), V(NX2, NY1 - 3, D.EW_IN - 1), 'niche bay 14 1/2" (12 3/4" clear)', V(0, 0, 0), V(0, 1, 0));
+dim(V(NX2 + 3, NY1, D.EW_IN - 1), V(NX2 + 3, NY2, D.EW_IN - 1), '12" (10 1/4" clear), bottom 43"', V(0, 0, 0), V(0, 0, 1));
 dim(V(D.DOOR_X1, D.DOOR_HEAD + 6, D.HW_IN), V(D.DOOR_X2, D.DOOR_HEAD + 6, D.HW_IN), 'RO 2\'-6 1/2"', V(0, 0, 0), V(0, 1, 0));
-dim(V(D.PW_S, D.DOOR_HEAD + 12, D.HW_IN), V(D.DOOR_X1, D.DOOR_HEAD + 12, D.HW_IN), '3\'-6 1/2" (A02 chain)', V(0, 0, 0), V(0, 1, 0));
+dim(V(D.PW_S, D.DOOR_HEAD + 12, D.HW_IN), V(D.DOOR_X1, D.DOOR_HEAD + 12, D.HW_IN), '3\'-5 3/4" as drawn (A02 chain says 3\'-6 1/2") -- TAPE', V(0, 0, 0), V(0, 1, 0));
 dim(V(D.PW_IN + 1, 0, 40), V(D.PW_IN + 1, D.CEIL, 40), '9\'-0"', V(0, 0, 0), V(0, 0, 1));
 dim(V(0, 108, 40), V(0, 120, 40), '1\'-0" floor', V(0, 0, 0), V(0, 0, 1));
 // ---- plumbing rough-in: CENTERLINE MARKS (Show: "Plumbing") ---------------------------------------------------------------------
 //      One layer, measurements only. Every penetration -- including the shower drain -- gets a crosshair on its centerline and a
-//      two-line tag: the run along the wall from the HALL-WALL STUDS, then the height off the SUBFLOOR (or "out" = off the
+//      two-line tag: the run along the wall from the EAST (window) WALL STUDS, then the height off the SUBFLOOR (or "out" = off the
 //      PLUMBING-WALL STUDS for the two points in the floor). Bare studs throughout, because that is what is measurable at
 //      rough-in. Finished-face equivalents, the code notes and the open items live in the caption, not on the drawing.
 {
@@ -2215,7 +2254,7 @@ dim(V(0, 108, 40), V(0, 120, 40), '1\'-0" floor', V(0, 0, 0), V(0, 0, 1));
     [53.5,     FF + 22, 0.42, 3.5, 'LAV SUPPLY hot/cold\n97"',        14, 42],
     [57.5,     FF + 18, 0.78, 3.5, 'LAV DRAIN\n93"',                  30, 28],
     [61.5,     FF + 22, 0.42, 3.5, 'LAV SUPPLY\n89"',                 14, 56],
-    [92.0,     FF +  8, 0.42, 6,   'WC SUPPLY\n58 1/2"',              20, 26],
+    [104.0,    FF +  8, 0.42, 6,   'WC SUPPLY\n46 1/2"',              20, 26],   // 6" LEFT of the flange facing the toilet = the shower side (review 2026-09-13; it was drawn on the vanity side)
     [D.TRIM_Z, D.VALVE_Y, 1.9, 6,  'SHOWER VALVE\n18"  |  48" up',    20, 34],
     [D.TRIM_Z, D.ARM_Y,   0.62, 6, 'SHOWER ARM\n18"  |  83 1/2" up',  20, 96],
   ]) {
@@ -2231,10 +2270,11 @@ dim(V(0, 108, 40), V(0, 120, 40), '1\'-0" floor', V(0, 0, 0), V(0, 0, 1));
   pdim(V(SS, FF, D.WC_Z), V(15.25, FF, D.WC_Z), '12 1/2"', V(0, 1.4, 0), V(0, 0, 1));
   label('WC FLANGE\n52 1/2"  |  12 1/2" out', 30, 7, 92, ps);
 
-  cyl(37.125, 134.5, SF - 0.3, SF + 0.7, 2.0, M.plumb, L);
-  markF(37.125, SF + 0.8, 134.5, 11);
-  pdim(V(SS, SF, 134.5), V(37.125, SF, 134.5), '34 3/8"', V(0, 1.4, 0), V(0, 0, 1));
-  label('SHOWER DRAIN\n16"  |  34 3/8" out', 52, 7, 140, ps);
+  const DX = (D.PW_N + D.TILE_T + KP_F - D.TILE_T) / 2;   // centred on the flat floor between the two tile faces: 36.91 with 7/16" OSB on the kitchen wall (was 37.125 / 34 3/8" out)
+  cyl(DX, 134.5, SF - 0.3, SF + 0.7, 2.0, M.plumb, L);
+  markF(DX, SF + 0.8, 134.5, 11);
+  pdim(V(SS, SF, 134.5), V(DX, SF, 134.5), '34 1/8"', V(0, 1.4, 0), V(0, 0, 1));
+  label('SHOWER DRAIN\n16"  |  34 1/8" out', 52, 7, 140, ps);
 
   // --- the vent: the one point M01 locates, and it is a +/-3" schematic read (orange) -----------------------------------
   cyl(0, 140, 0, D.PLATE_TOP, 1.5, M.flag, L);
@@ -2244,8 +2284,8 @@ dim(V(0, 108, 40), V(0, 120, 40), '1\'-0" floor', V(0, 0, 0), V(0, 0, 1));
 
   // --- running string along the wall so the whole run lays out on one tape pull -----------------------------------------
   {
-    const y = -10, zs = [D.EW_S1, 140, 134.5, D.TRIM_Z, 98.0, 92.0, 61.5, 57.5, 53.5];
-    const txt = ['10 1/2"', '5 1/2"', '2"', '34 1/2"', '6"', '30 1/2"', '4"', '4"'];
+    const y = -10, zs = [D.EW_S1, 140, 134.5, D.TRIM_Z, 104.0, 98.0, 61.5, 57.5, 53.5];
+    const txt = ['10 1/2"', '5 1/2"', '2"', '28 1/2"', '6"', '36 1/2"', '4"', '4"'];
     for (let i = 0; i < txt.length; i++)
       pdim(V(WF, y, zs[i]), V(WF, y, zs[i + 1]), txt[i], V(0, 0, 0), V(0, 1, 0), Math.abs(zs[i + 1] - zs[i]) < 8 ? 15 : 3);
   }

diff --git a/index.html b/index.html
@@ -204,18 +204,20 @@
       </div>
     </article>
     <article class="card">
-      <a class="thumb" href="guest-bath.html" aria-label="Open the guest bath drawing"><img src="img/guest-bath.jpg" alt="3D interior of the lower-floor guest bath cut away from the hall: tub and shower alcove with its window, toilet and single-sink vanity"></a>
+      <a class="thumb" href="guest-bath.html" aria-label="Open the guest bath drawing"><img src="img/guest-bath.jpg" alt="3D interior of the lower-floor guest bath cut away from the hall: full-width tiled shower with its window and niche, frameless glass, toilet and single-sink vanity"></a>
       <div class="body">
         <h3><a href="guest-bath.html">Guest bath &mdash; lower floor interior</a></h3>
-        <p>The downstairs bath between the guest-room closets and the kitchen, with the owner's changes of 2026-09-10: a tiled
-        shower with a frameless glass door, 32" from the glass to the back tile, where the permit set drew a tub; its 4'-0" x 1'-0"
-        window at 5'-0"; a 48" single-sink vanity in the hall-wall corner with the sink centered; the toilet re-centered with 18" to
-        the vanity and 18" to the glass; matte-black fixtures throughout; tile to 7'-0". The shower opens as the owner's default, a
-        full-width tiled shower with custom glass and no stub wall; a radio shows the permit set's 8 1/2" stub wall (sized for a 60"
-        insert) for comparison. Fixtures match the main bath: Moen UT3312 trim, Moen 6402 faucet, Kohler Artifacts sconce over a
-        Kohler Essential mirror. Orange flags mark the structural sheet's door header landing 34" from the architect's door, a
-        window rough-width typo in the schedule, and the fan and light drawn 9" apart.</p>
-        <span class="meta">Updated 2026-09-10 &middot; 7 camera views &middot; arrow keys walk the room &middot; stub wall on a radio &middot; each wall, ceiling, floor, shower, glass, tile, vanity, fixtures, lights and framing are toggles</span>
+        <p>The downstairs bath between the guest-room closets and the kitchen, as the owner has revised it (2026-09-10 to 09-13): a
+        full-width tiled shower with a frameless glass door where the permit set drew a tub &mdash; 34 1/8" from the glass to the back
+        tile, 31 1/8" of flat floor inside a 4" curb, 66 9/16" tile to tile once the kitchen wall's shear OSB is counted; its 4'-0" x
+        1'-0" window at 5'-0" with a recessed niche below it; tile to 7'-6"; a 48" single-sink vanity in the hall-wall corner with the
+        sink centered; the toilet 16 1/2" to the vanity and 16 1/2" to the shower curb; a wet-rated can over the shower and the fan
+        beside the glass; matte-black fixtures shared with the main bath (Moen UT3312 trim, Moen 6402 faucet, Kohler Artifacts sconce
+        over a Kohler Essential mirror). A Plumbing layer marks every drain, supply, valve and vent centerline off the east-wall studs
+        for the plumber. A radio shows the permit set's 8 1/2" stub wall (sized for a 60" insert) for comparison. Orange flags mark
+        what is still open: the window must be tempered, the valve sits behind the fixed glass, the door's rough opening and the OSB
+        thickness want a tape, and the schedule's window rough-width typo.</p>
+        <span class="meta">Updated 2026-09-13 &middot; 8 camera views &middot; arrow keys walk the room &middot; stub wall on a radio &middot; each wall, ceiling, floor, shower, glass, tile, vanity, fixtures, lights, framing and plumbing are toggles</span>
         <div class="chips">
           <a class="open" href="guest-bath.html">Open drawing</a>
           <a href="guest-bath.html?view=door">From the door</a>
